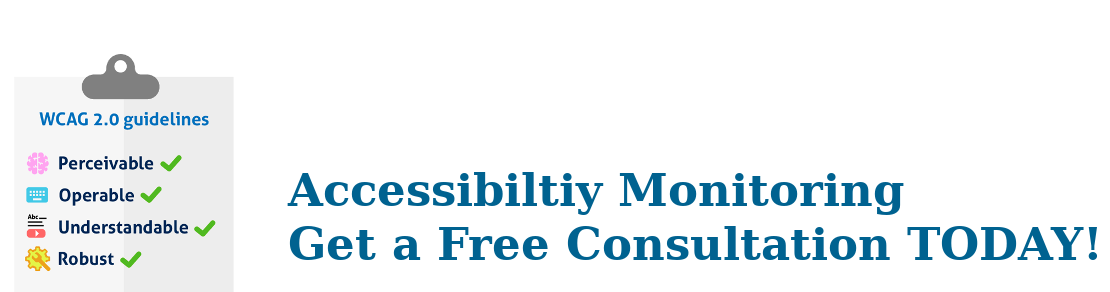
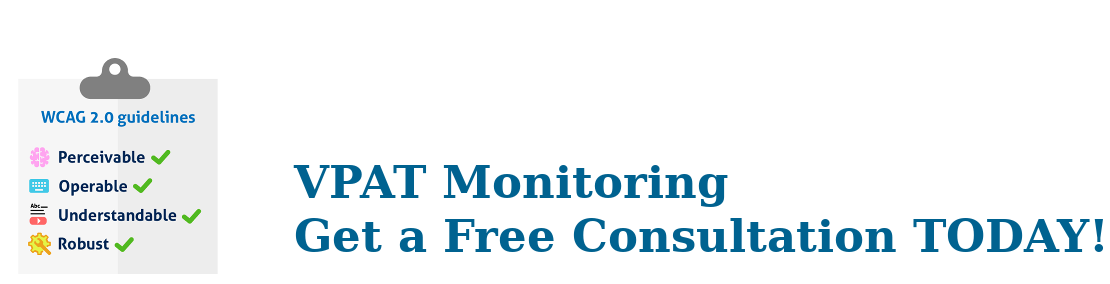
update site

diff --git a/_includes/index.html b/_includes/index.html
@@ -8,7 +8,7 @@
           </figure>
         </div>
       </div>
-      <div class="row pr-5 mr-5">
+      <div class="row">
         <div class="col-8 offset-md-2 text-right">
           <p><a class="btn btn-lg btn-info" href="https://kaffeinatedkodemonkey.youcanbook.me/" target="_blank" role="button">Book a Free Consultations</a></p>
         </div>
@@ -21,12 +21,12 @@
       <!-- Wrap the rest of the page in another container to center all the content. -->
       <div class="row mb-3 ml-2">
         <div class="col-md-8 offset-md-2">
-          <h2>Evaluation and Compliance</h2>
+          <h2>VPAT Evaluation and Certification</h2>
 
-          <p class="lead">We offer Web Accessibilty evaluation audits with <strong>VPAT Certifications</strong> and <strong>Accessibilty Monitoring</strong>.</p>
           <p class="lead">Our Web Accessibiltiy expert has been through the <a href="https://webaim.org/services/training/" target="_blank">WebAIM</a> course
-          and understands <a href="https://www.itic.org/policy/accessibility/vpat" target="_blank">VPAT</a> documentation.</p>
-          <p class="lead">Get your Evaluation & <a href="{{ site.url }}/VPAT">VPAT Certification</a> today and start <a href="{{ site.url }}/Monitoring">monitoring your accessibility</a>.</p>
+          and understands the <a href="https://www.itic.org/policy/accessibility/vpat" target="_blank">VPAT</a> documentation process.</p>
+
+          <p class="lead">Get your <a href="{{ site.url }}/VPAT">VPAT Evaluation or Certification</a> today and start <a href="{{ site.url }}/Monitoring">monitoring your accessibility</a>.</p>
         </div>
       </div>
 
@@ -39,31 +39,42 @@
             <div class="card" style="width: 18rem;">
               <img class="card-img-top" src="{{ site.url }}/assets/images/AccessibiltyImageBG.jpg" alt="Card image cap">
               <div class="card-body">
-                <h5 class="card-title">Evaluation & <em>E</em>-Monitoring</h5>
-                <h6 class="card-title">$1495/$995 mo</h6>
+                <h5 class="card-title">VPAT Monitoring</h5>
+                <h6 class="card-title"><span class="small text-danger">*</span> $1495/$165 mo</h6>
                 <ul>
                   <li class="text-left">Evaluation Audit</li>
-                  <li class="text-left">Enterprise Dashboard</li>
-                  <li class="text-left">Monitoring & Reporting</li>
+                  <li class="text-left">Compliance Report</li>
+                  <li class="text-left">How-To-Resolve</li>
+                  <li class="text-left">Monthly Monitoring</li>
                   <li class="text-left">VPAT Certification</li>
+                  <div aria-hidden="ture">
+                    <p>&nbsp;</p>
+                  </div>
                 </ul>
-                <a href="https://kaffeinatedkodemonkey.youcanbook.me/" target="_blank" data-ycbm-modal="true" class="btn btn-info">Let's Talk</a>
+
+                <h6 class="small text-left text-danger">* Request Quote for Enterprise Monitoring</h6>
+
+                <a href="{{ site.url }}/Monitoring" data-ycbm-modal="true" class="btn btn-info mt-3">Start Monitoring</a>
               </div>
             </div>
           </div><!-- /.col-lg-4 -->
           <div class="col-lg-4">
-            <div class="card shadow-lg p-3 mb-5 bg-light rounded" style="width: 18rem;">
+            <div class="card shadow-lg p-3 mb-5 bg-light rounded" style="width: 20rem;">
               <img class="card-img-top" src="{{ site.url }}/assets/images/AccessibiltyImageBG.jpg" alt="Card image cap">
               <div class="card-body">
-                <h5 class="card-title">Evaluation & VPAT Only</h5>
-                <h6 class="card-title">$495</h6>
+                <h5 class="card-title">VPAT Certification w/Evaluation</h5>
+                <h6 class="card-title">$1495 one-time</h6>
                 <ul>
                   <li class="text-left">Evaluation Audit</li>
-                  <li class="text-left">How-to resolve issues</li>
+                  <li class="text-left">Compliance Report</li>
+                  <li class="text-left">How-To-Resolve</li>
                   <li class="text-left">VPAT Certification</li>
-                  <p>&nbsp;</p>
+                  <div aria-hidden="ture">
+                    <p>&nbsp;</p>
+                    <p>&nbsp;</p>
+                  </div>
                 </ul>
-                <a href="https://kaffeinatedkodemonkey.youcanbook.me/" target="_blank" data-ycbm-modal="true" class="btn btn-lg btn-info">Let's Talk</a>
+                <a href="{{ site.url }}/VPAT" data-ycbm-modal="true" class="btn btn-lg btn-info">Get Certified</a>
               </div>
             </div>
           </div><!-- /.col-lg-4 -->
@@ -71,15 +82,20 @@
             <div class="card" style="width: 18rem;">
               <img class="card-img-top" src="{{ site.url }}/assets/images/AccessibiltyImageBG.jpg" alt="Card image cap">
               <div class="card-body">
-                <h5 class="card-title">Evaluation Basic Monitoring</h5>
-                <h6 class="card-title">$495/$165 mo</h6>
+                <h5 class="card-title">VPAT Evaluation</h5>
+                <h6 class="card-title">$495 one-time</h6>
                 <ul>
                   <li class="text-left">Evaluation Audit</li>
-                  <li class="text-left">How-to resolve issues</li>
-                  <li class="text-left">Monitoring & Reporting</li>
-                  <li class="text-left">VPAT Certification</li>
+                  <li class="text-left">Compliance Report</li>
+                  <li class="text-left">How-To-Resolve</li>
+                  <div aria-hidden="ture">
+                    <p>&nbsp;</p>
+                    <p>&nbsp;</p>
+                    <p>&nbsp;</p>
+                  </div>
                 </ul>
-                <a href="https://kaffeinatedkodemonkey.youcanbook.me/" target="_blank" data-ycbm-modal="true" class="btn btn-info">Let's Talk</a>
+
+                <a href="{{ site.url }}/VPAT" data-ycbm-modal="true" class="btn btn-md btn-info">Get Evaluated</a>
               </div>
             </div>
            </div><!-- /.col-lg-4 -->
@@ -88,19 +104,18 @@
            <small>*Pricing may very based on size of site</small>
         </div><!-- /.row -->
 
-
         <!-- START THE FEATURETTES -->
 
         <hr class="featurette-divider">
 
         <div class="row featurette">
           <div class="col-md-7">
-            <h2 class="featurette-heading">Certification <span class="text-muted">Done right.</span></h2>
+            <h2 class="featurette-heading">VPAT Certification <span class="text-muted">Done right.</span></h2>
 
-            <p class="lead">Don't waist your time trying to understand how fill out a VPAT document. We have web accessibility experts that can do this for you.</p>
+            <p class="lead">Don't waist your time trying to understand how fill out a VPAT document. We have a web accessibility expert that can do this for you.</p>
 
-            <p class="lead">Our experts have been filling out VPAT's for all industries know the differance between each type. There are four (4) types VPAT
-            Certifications based requirments:</p>
+            <p class="lead">We have been filling out VPAT's for all industries and know the differance between the four (4) types docuemtns and what
+            the requiremtns are.</p>
 
             <div class="row">
               <div class="col-md-4">
@@ -116,8 +131,10 @@
             </div>
           </div>
 
-            <p class="lead">Each is desiged to meet a spacifice requirement. Unless you have a pre-requested VPAT, our experts will discuss your needs and help
-          determin the correct VPAT to use.</p>
+            <p class="lead">Each VPAT is desiged to meet a spacifice requirement. Unless you have a pre-requested VPAT, our experts will discuss your needs and help
+          determin the correct VPAT for your Certificatation.</p>
+
+          <p><a href="{{ site.url}}/VPAT" class="btn btn-md btn-primary">Get your VPAT Certification</a></p>
 
           </div>
           <div class="col-md-5">
@@ -129,15 +146,16 @@
 
         <div class="row featurette">
           <div class="col-md-7 order-md-2">
-            <h2 class="featurette-heading">Accessibility Monitoring <span class="text-muted">Be Alerted of issues</span></h2>
+            <h2 class="featurette-heading">VPAT Monitoring <span class="text-muted">Stay in the know</span></h2>
 
-            <p class="lead">Are you looking to get you website or application ADA Certified?</p>
-            <p class="lead">We will run an Accessibility Evauation on your product and send you a report of issues that need to
-            be resolved one resolved we issue a VPAT Certification based on your level of comliance.</p>
+            <p class="lead">Don't Stop at an Evaluation or Certification, monitor you site and stay on top of compliance issue with a monthly Compliance
+            Report.</p>
 
-            <p class="lead">We know that websites grown and code is ever changing therfore we strongly adviesed you
+            <p class="lead">We know that websites grow and code is ever changing therfore we strongly adviesed you
             sign up for monthly monitoring to keep you alerted of any issues that may arise as you fix bgs and grow your
             site.</p>
+
+            <p><a href="{{ site.url}}/Monitoring" class="btn btn-md btn-primary">Get a Monthly Compliance Report</a></p>
 
           </div>
           <div class="col-md-5 order-md-1 mt-5 pt-5">
@@ -164,7 +182,7 @@
             </ul>
 
             <p class="lead">Bottom line is if you are doing Web Accessible for marketing or for Section 508 requirements you need to stay on top of it.
-            We help do that with VPAT Certifications and Accessibility Monitoring.</p>
+            We help you do that with VPAT Evaluations, Certifications, and Monitoring.</p>
           </div>
           <div class="col-md-5">
             <img class="featurette-image img-fluid mx-auto" src="{{ site.url }}/assets/images/AccessibilityBenefits.jpeg" alt="Generic placeholder image">

diff --git a/508.html b/508.html
@@ -1,36 +1,46 @@
 ---
 layout: page-template
-title: Section 508
+title: Section 508 & WCAG
 image: Section508.png
 ---
 
-<h2>Does 508 Apply to my website?</h2>
+<h2>What is Section 508</h2>
 
-<p>If your business is a federal government agency, or receives funding/assistance from the federal government then you have to abid by section Section 508
-requirements.</p>
+<!--<p>If your business is a federal government agency, or receives funding/assistance from the federal government then you have to abid by section Section 508
+requirements.</p>-->
 
-<p>In 1998, Congress amended the Rehabilitation Act of 1973 to require Federal agencies to make electronic documnts accessible to people with disabilities.
+<p>In 1998, Congress amended the Rehabilitation Act of 1973 requiring Federal agencies to make electronic documnts accessible to people with disabilities.
 Section 508 applies to all Federal agencies when it pertains to electronic and information technology. Government gencies must give disabled employees and members
 of the public access to the same or comparable information as they do others.</p>
 
-<p>The <a href="https://www.access-board.gov/" target="_blank">U.S. Access Board</a> is responsible for developing Information and Communication Technology (ICT) accessibility standards to incorporate into regulations that
-govern Federal procurement practices. On January 18, 2017, the Access Board issued a final rule that updated accessibility requirements covered by Section 508, and
-refreshed guidelines for telecommunications equipment subject to Section 255 of the Communications Act. The final rule went into effect on January 18, 2018 and has
-been commonly refered to as the "Refesh".</p>
+<p>The <a href="https://www.access-board.gov/" target="_blank">U.S. Access Board</a> is responsible for developing accessibility standards that govern Federal
+procurement practices. January 2017, they issued a final rule that updated accessibility requirements for section 508 and refreshed guidelines to Section 255.</p>
 
-<p>The refesh reorganized Section 508 Standards and Section 255 Guidelines in response to market trends and innovations in technology. The refresh also
+<p>The refresh reorganized Section 508 Standards and Section 255 Guidelines in response to market trends and innovations in technology. The refresh also
 harmonized these requirements with other guidelines and standards both in the U.S. and abroad, including standards issued by the European Commission, and
-with the World Wide Web Consortium (W3C) Web Content Accessibility Guidelines (WCAG 2.0), a globally recognized voluntary consensus standard for web content and ICT.</p>
+W3C gidelines know as WCA.</p>
 
 <p>For more understanding of Section 508 and the Revised Standards you can visit the <a href="https://www.section508.gov/manage/laws-and-policies" target="_blank">GSA
 Government-wide IT Accessibility Program</a>.</p>
 
-<h2>We are doing our part</h2>
+<h2>What is WCAG</h2>
 
+<p>Web Content Accessibility Guidelines (WCAG), developed through the the World Wide Web Consortium (W3C) process in cooperation with individuals and
+organizations around the world, with a goal of providing a single shared standard for web content accessibility that meets the needs of individuals,
+organizations, and governments internationally.</p>
+
+<p>The WCAG documents explain how to make web content more accessible to people with disabilities. Web “content” generally refers to the information in a web
+page or web application, including:</p>
+
+<ul>
+  <li>natural information such as text, images, and sounds</li>
+  <li>code or markup that defines structure, presentation, etc.</li>
+</ul>
+<p>WCAG is becoming a globally recognized voluntary consensus standard for web content and Information and Communication Technology (ICT).</p>
+
+<h2>We are making it easy</h2>
 <p>Kaffeinated Kodemonkey is an Accessibility Driven Development company. We believe in designing <strong><em>POUR</em></strong> websites that follow the
-Web Content Accessibility Guidelines (WCAG) princapals.</p>
-
-<p>WCAG focuses heavily on the principles of accessibility and encourages developers to think through the process conceptually. The four main guiding principles of accessibility are:</p>
+WCAG princapals of accessibility and encourages developers to think through the process conceptually. The four main guiding principles of accessibility are:</p>
 <ul>
   <li><strong>P</strong>erceivable</li>
   <li><strong>O</strong>perable</li>
@@ -38,18 +48,11 @@ Web Content Accessibility Guidelines (WCAG) princapals.</p>
   <li><strong>R</strong>obust</li>
 </ul>
 
-<p>Conveniently, these principles spell out an acronym that is relatively easy to remember: <strong><em>POUR</em></strong>. The idea is to create a <strong><em>POUR</em></strong>
-website, so to speak. It is sufficient to say that putting the <strong><em>POUR</em></strong> principles to work helps put people at the center of the process, which, in the end, is the whole reason for
+<p>It is sufficient to say that putting the <strong><em>POUR</em></strong> principles to work helps put people at the center of the process, which, in the end, is the whole reason for
 everything we do.</p>
-
-<p>Why we strive to design <strong><em>POUR</em></strong> websites:</p>
-<ul>
-  <li>To improve the lives of people with disabilities (human-centered motivations)</li>
-  <li>To capitalize on the a wider audience or consumer base (marketing or economic-centered motivations)</li>
-  <li>To avoid lawsuits and/or bad press (public relations and punishment-centered motivations)</li>
-</ul>
 
 <h2>Contact our POUR Developers</h2>
 
-<p>If you would like a <strong><em>POUR</em></strong> website or for use to take a look at your current website, Please Book a Free Consultation with our <strong><em>POUR</em></strong> Development Team.</p>
+<p>For a <strong><em>POUR</em></strong> website or for use to look at your current site, Book a Free Consultation with our
+<strong><em>POUR</em></strong> Team.</p>
 <p><a class="btn btn-lg btn-info" href="https://kaffeinatedkodemonkey.youcanbook.me/" target="_blank" role="button">Book a Free Consultation</a></p>

diff --git a/VPAT.html b/VPAT.html
@@ -9,12 +9,22 @@ description: VPAT Compliant. We fill out VPAT Documents and offer Accessibilty C
 
 <h2>Overview</h2>
 
-<p>VPAT is the Voluntary Product Accessibility Template to evaluate accessibility standards for Section 508 (U.S.), EN 301 549 (EU), and W3C/WAI WCAG.
-Some companies are required to fill one out before they can relese a new produce, others may need one to Certify that they have meet the Accessibilty
-requirements.</p>
+<p>Our expeties lies is in accessibility driven development. Weather we are designing a website or Evaluating for a VPAT Certification we always
+use POUR design principals by WCAG to meets accessibility requirments.</p>
 
-<h2>Certifications</h2>
-<p>Kaffeinated Kodemonkey offers four (4) VPAT Certifications to verify compliance with Sections 508 & WCAG.</p>
+<p>The Voluntary Product Accessibility Template (VPAT) is uesed to evaluate accessibility standards for Section 508 (U.S.), EN 301 549 (EU), and W3C/WAI WCAG.
+Some companies are required to fill out a VPAT before they can relese a new produce, others may need one to Certify that they have meet the Accessibilty
+requirements. We use the VPAT to certify that our sites are ADA compliant.</p>
+
+<h2>VPAT Evaluation</h2>
+
+<p>A VPAT Evaluation is a process we use to examin your site and verify that accessibility standards have been stified to level AA.
+During this process we will crawl your site, use eveluation tools, as-well-as manualy go through the site using assitive technologies.
+We test the site for hands-free access, vision impairedness, low-vision, color-blind, learning disabilities, deafness or low-hearing, just to name a few</p>
+
+<h2>VPAT Certifications</h2>
+<p>Our certification process is easy. After we compleat an evauation we use one of the four (4) VPAT documents to Certifications your site meets the
+required standards and is compliance with Sections 508, EU, or WCAG. </p>
 
 <ul>
   <li><strong>VPAT 508 Certification</strong>: U.S. Federal accessibility standard</li>
@@ -31,42 +41,6 @@ requirements.</p>
 </ul>
 
 <p>We provide a PDF you can disply on your website for download or send to users upon request.</p>
-
-<h2>Evaluation Audit</h2>
-
-<p>Our Web Accessibility Expert follow Section 508 & WCAG standards when evaluating your site for compliance. </br>
-The process is simple:</p>
-<div class="row">
-  <div class="col-6">
-    <ul>
-      <li>Evaluation audit of your website</li>
-      <li>Report of all compliance issues</li>
-      <li>Explination on how to resolve issues</li>
-    </ul>
-  </div>
-  <div class="col-6">
-    <ul>
-      <li>Re-evaluation audit to check resolution</li>
-      <li>Fillout VPAT deliver it in a PDF format</li>
-      <li>VPAT Certifications are vaild for one (1) year</li>
-    </ul>
-  </div>
-</div>
-
-<p>It is highly recomended you <a href="{{ site.url }}/Monitoring">monitor your website</a> once a VPAT is complete. Overtime code and content change
-and may cause the VPAT to be demed invalide. Our VPAT Certification is only valid for one (1) year, after which time we will contact you for a
-re-evaluation audit.</p>
-
-<h2>Disclamer</h2>
-
-<p><span class="text-uppercase"><strong>Please Note</strong></span>: A VPAT® Certification can be an essential aid in assessing the accessibility of products,
-it is important to note that in cases where a product conforms to relevant standards and technical specifications, an end user may still encounter difficulties
-utilizing the site due to the nature or severity of his or her disability. On the other hand, a product that may not fully conform to all technical requirements may still
-be perfectly accessible to an end user who has a disability, but does not need a particular accessibility feature, e.g., a large-button telephone handset for an
-individual with a hearing disability.</p>
-
-<p>While there may not be a perfectly accessible product, many can still be used effectively and efficiently by most people with disabilities. Kaffeinated Kodemonkey
-offers to assist companiend with understanding a VPAT.</p>
 
 <h2>Contact Us</h2>
 

diff --git a/_layouts/page-template.html b/_layouts/page-template.html
@@ -46,7 +46,7 @@
             <div id="mc_embed_signup">
               <form action="https://kaffeinatedkodemonkey.us11.list-manage.com/subscribe/post?u=25ed2db8c5f44be422ac9503a&amp;id=4bd59d6de7" method="post" id="mc-embedded-subscribe-form" name="mc-embedded-subscribe-form" class="validate" target="_blank" novalidate>
                 <div id="mc_embed_signup_scroll">
-                  <h5><strong>Free Web Accessibility Report</strong></h5>
+                  <h5><strong>Free VPAT Evaluation Broucher</strong></h5>
 
                    <div class="indicates-required"><span class="text-danger">*</span> indicates required</div>
                    <p>&nbsp;</p>

diff --git a/Monitoring.html b/Monitoring.html
@@ -8,7 +8,7 @@ description: Monitoring Accessibilty helps you keep compliant with WCAG, 508 and
 
 <h2>Keeping you on top of your game</h2>
 
-<p>Kaffeinated Kodemonkey keeps companies, business, and Goverment compliant.</p>
+<p>Our goal is to keeps companies, business, and Goverment compliant.</p>
 
 <p>A website does not stop growing or changing. It is alwasy being maintained, manages, edited and update. Weather it be daily,
 weekly, or monthly it can be exshusiting to keep up on the accessibility guidelines and requirements as you make your

diff --git a/_includes/header.html b/_includes/header.html
@@ -13,13 +13,13 @@
           <a class="nav-link" href="{{ site.url }}/VPAT">VPAT</a>
         </li>
         <li class="nav-item">
-          <a class="nav-link" href="{{ site.url }}/508">Section 508</a>
+          <a class="nav-link" href="{{ site.url }}/508">508 & WCAG</a>
         </li>
         <li class="nav-item">
           <a class="nav-link" href="{{ site.url }}/Monitoring">Monitoring</a>
         </li>
       </ul>
-    
+
     </div>
   </nav>
 </header>

diff --git a/_includes/footer.html b/_includes/footer.html
@@ -1,4 +1,4 @@
 <footer class="container">
   <p class="float-right"><a href="#">Back to top</a></p>
-  <p>&copy; 2017-2018 {{ site.company }} &middot; <a href="{{ site.url }}/policies/Privacy-policy.pdf">Privacy</a> &middot; <a href="#">Terms</a></p>
+  <p>&copy; 2017-2018 {{ site.company }} &middot; <a href="{{ site.url }}/policies/Privacy-policy.pdf">Privacy</a> <!-- &middot; <a href="#">Terms</a> --></p>
 </footer>
